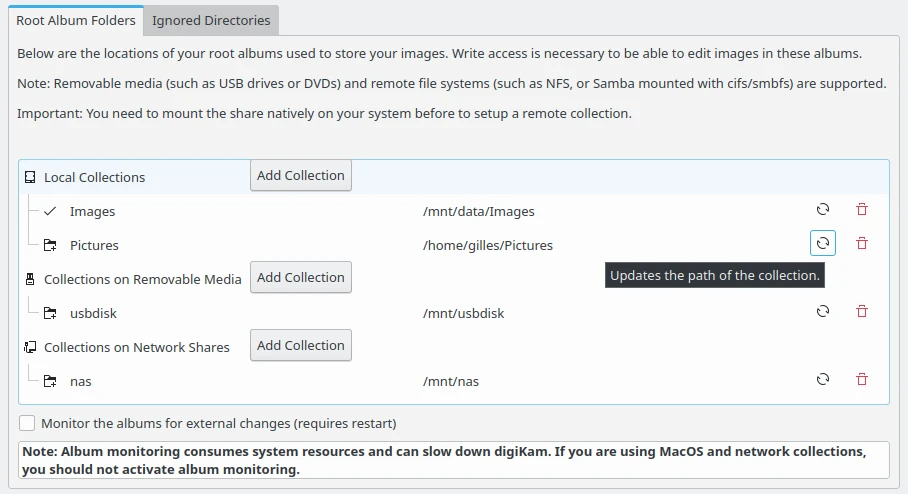
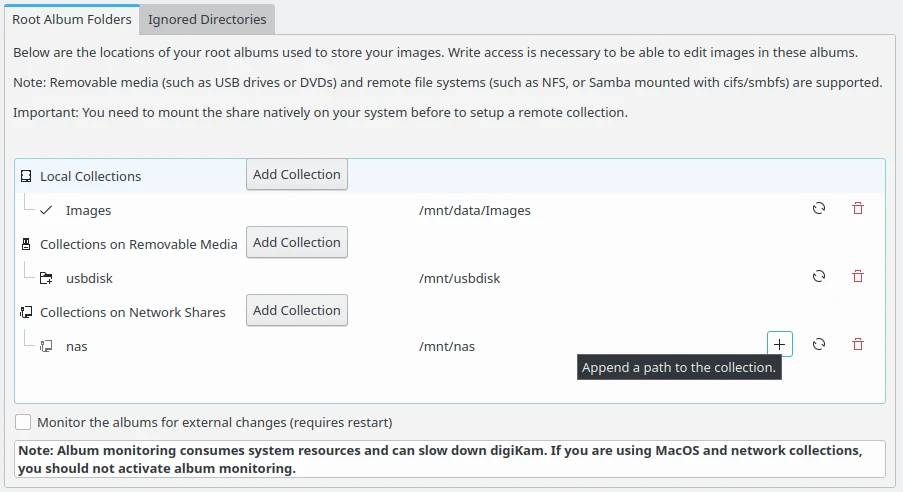
update collections settings screenshot with Plus button avaialble for Network shares CCBUGS: 464721

diff --git a/setup_application/collections_settings.rst b/setup_application/collections_settings.rst
@@ -34,7 +34,7 @@ The **Root Album Folders** list three types of collection which can be reference
 
     - **Collections on Network Shares**: these are root album folders stored remote file systems as Samba or NFS and mounted as native on your system.
 
-For each type, the **Add Collection** button allows to append an entry in the list. Entry properties are the root album folder **name** and the root album folder **path**.
+For each type, the **Add Collection** button allows to append an entry in the list. Entry properties are the root album folder **Name** and the root album folder **Path**.
 
 .. figure:: images/setup_collection_new.webp
     :alt:
@@ -42,13 +42,15 @@ For each type, the **Add Collection** button allows to append an entry in the li
 
     The digiKam Collections Configuration Page Appending a Root Album Folder
 
-To edit the properties of an entry, use the **update button** on the right of the path. To remove an entry, use the **red trash button** on right side.
+To edit the properties of an entry, use the **Update button** on the right of the path. To remove an entry, use the **Red trash button** on right side.
 
 .. figure:: images/setup_collection_category.webp
     :alt:
     :align: center
 
     The digiKam Collections Configuration Page Editing Category of a Root Album Folder
+
+For the **Collections on Network Shares**, the **Plus button** allows to append a path to the registered collection entry.
 
 .. important::
 
